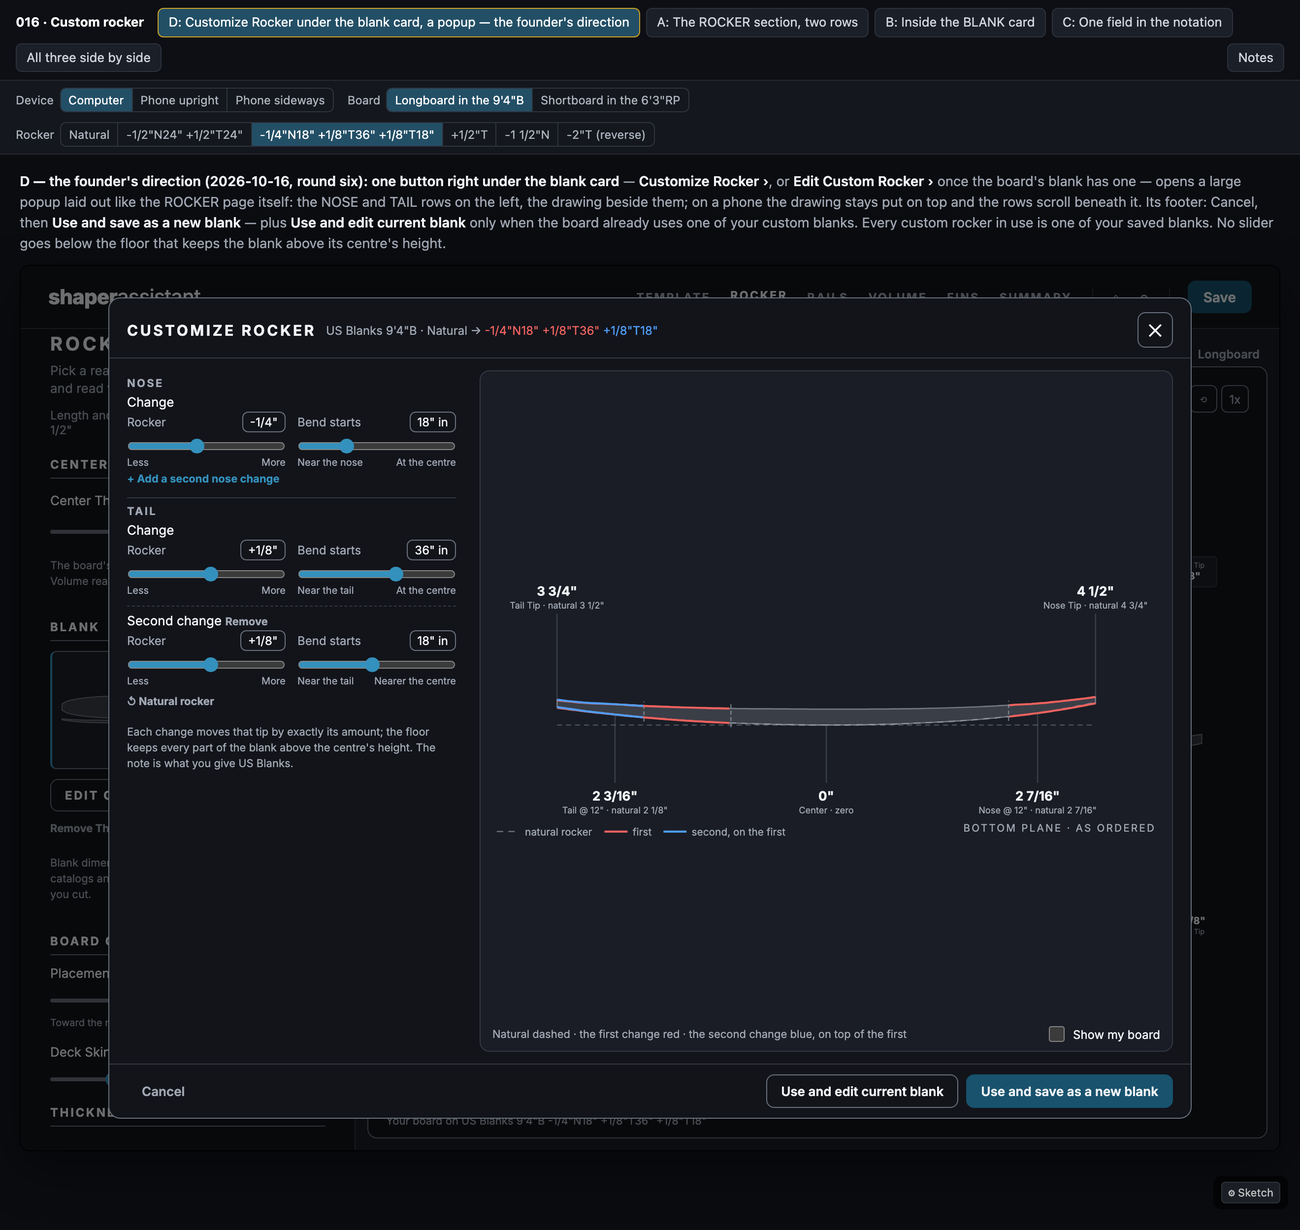
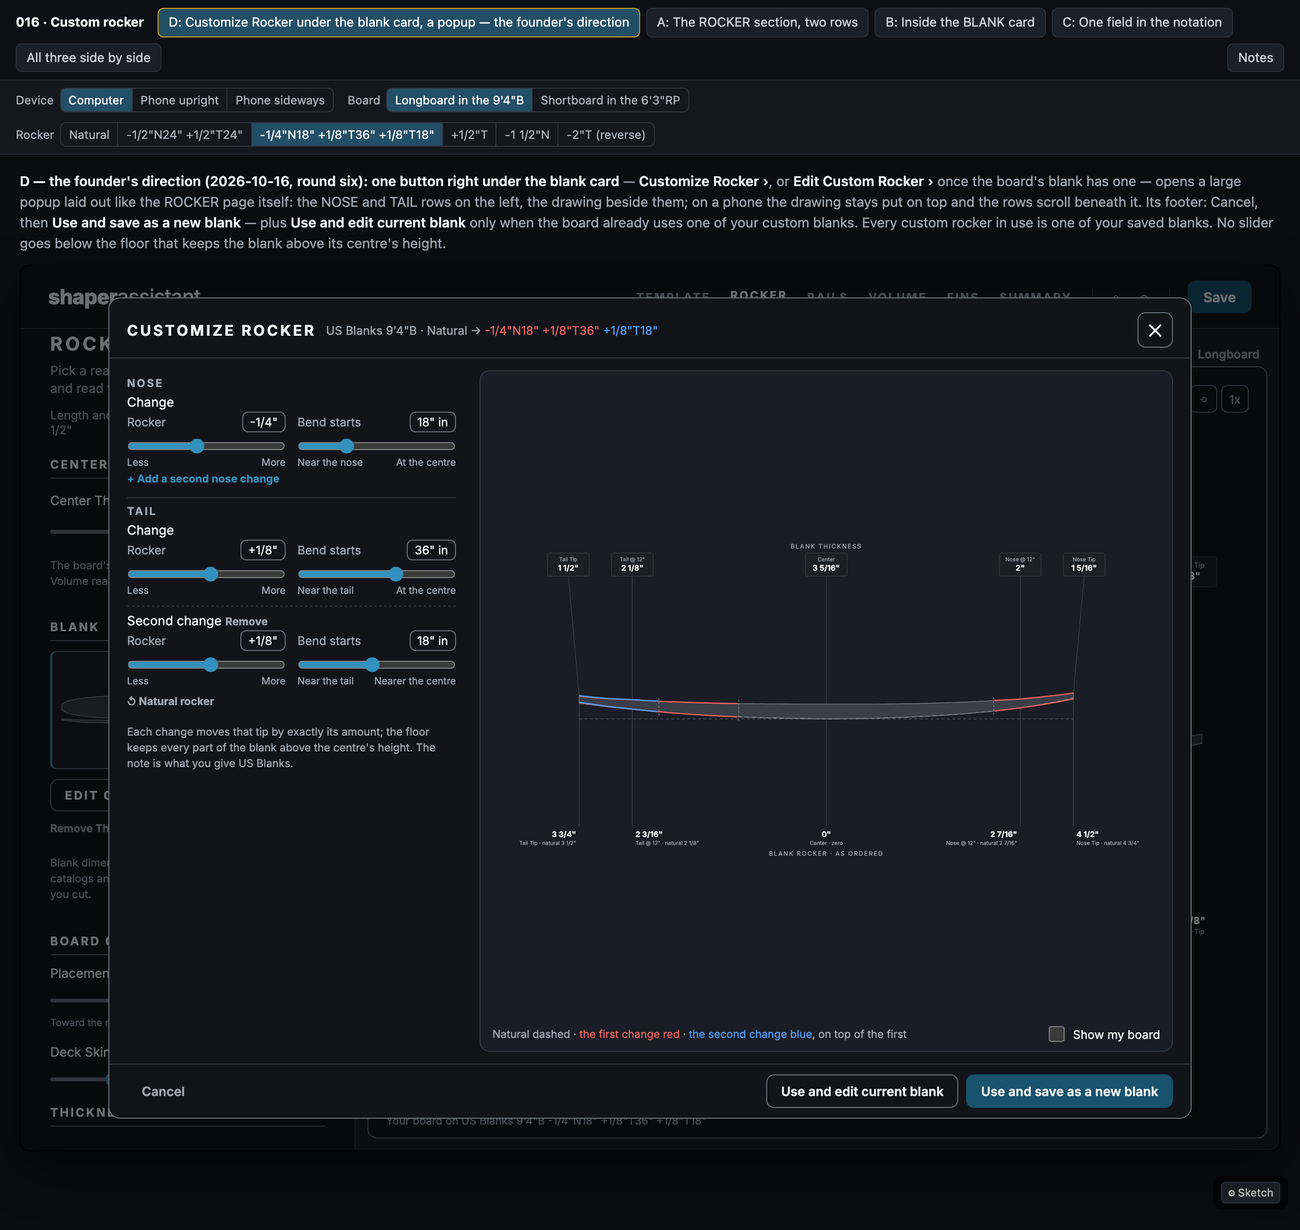
docs(sketch-016): round fourteen — the popup shows the blank's thickness and rocker, or the board's values
The founder (2026-10-16): with Show my board off, show all the blank's dimensions including
thickness; with it on, the surfboard's values. The popup's drawing now carries the blank's
printed thickness as chips on one rail and the rocker as ordered on the other at the blank's
five stations, tips anchored outward and 12" stations inward; the colour key moved into the
caption's own words; the drawing takes the page's own width on a computer. Nothing in the app
changed.

diff --git a/.planning/sketches/016-custom-rocker/index.html b/.planning/sketches/016-custom-rocker/index.html
@@ -386,14 +386,15 @@ function mainArt(device, g, opts = {}) {
   const W = upright ? 386 : device === "side" ? 530 : 880, H = upright ? 330 : device === "side" ? 220 : 420;
   const r = g.r || state.rocker, custom = !isNatural(r);
   const lo = Math.min(0, g.start), hi = Math.max(g.L, g.start + g.bl.lengthIn), span = hi - lo;
-  const along = upright ? H - 36 : W - 110, k = along / span;
+  const margin = overlay && !upright ? 120 : 55;
+  const along = upright ? H - 36 : W - 2 * margin, k = along / span;
   // the board's height axis at the same scale (true proportion, as the app draws it)
   const maxUp = Math.max(...g.blankBottom.map((p) => p[1] + p[2]), ...g.boardRocker.map((p) => p[1] + p[2])) + 0.2;
   const minDn = Math.min(0, ...g.blankBottom.map((p) => p[1]), ...g.boardRocker.map((p) => p[1])) - 0.2;
   const mid = upright ? W / 2 : H / 2 + 10;
   const X = upright ? (s) => mid - ((maxUp + minDn) / 2) * k : null;
   // horizontal: x along, y up.  upright: y along (nose at the top), x = height (deck to the right? the app draws deck to the right of the bottom)
-  const P = upright ? (s, h) => [mid + (h - (maxUp + minDn) / 2) * k, H - 14 - (s - lo) * k] : (s, h) => [55 + (s - lo) * k, mid - (h - (maxUp + minDn) / 2) * k];
+  const P = upright ? (s, h) => [mid + (h - (maxUp + minDn) / 2) * k, H - 14 - (s - lo) * k] : (s, h) => [margin + (s - lo) * k, mid - (h - (maxUp + minDn) / 2) * k];
   const path = (pts, f) => pts.map((p, i) => { const [x, y] = P(p[0], f(p)); return `${i ? "L" : "M"}${x.toFixed(1)},${y.toFixed(1)}`; }).join("");
   const blankOutline = path(g.blankBottom, (p) => p[1]) + path([...g.blankBottom].reverse(), (p) => p[1] + p[2]).replace(/^M/, "L") + "Z";
   const boardOutline = path(g.boardRocker, (p) => p[1]) + path([...g.boardRocker].reverse(), (p) => p[1] + p[2]).replace(/^M/, "L") + "Z";
@@ -421,25 +422,34 @@ function mainArt(device, g, opts = {}) {
     }
   }
   if (!showBoard) {
-    // the blank alone: its own five stations — tail tip, 12" in, the centre's zero reference, 12" in, nose tip —
-    // reading the rocker as ordered, with the natural figure small beneath (the founder, round thirteen)
+    // the blank alone: all its dimensions at its own five stations — the blank's printed thickness as chips on one
+    // rail, the rocker as ordered on the other, the centre's zero reference included (the founder, rounds 13–14)
     const Lb = g.bl.lengthIn, C = g.bl.centreFromTailIn;
-    const stations = [[0, "Tail Tip"], [12, `Tail @ ${M() ? "30.5 cm" : '12"'}`], [C, "Center"], [Lb - 12, `Nose @ ${M() ? "30.5 cm" : '12"'}`], [Lb, "Nose Tip"]];
-    for (const [x, name] of stations) {
-      const sx = x + g.start, nat = g.natAt(x), cus = g.blankLev(x), isCentre = x === C;
+    const thick = (label) => { const st = g.bl.stations.find((x) => x.label === label); return st && st.thickIn !== null ? st.thickIn : null; };
+    const stations = [[0, "Tail Tip", "T0", "out-"], [12, `Tail @ ${M() ? "30.5 cm" : '12"'}`, "T12", "in+"], [C, "Center", "C", "mid"], [Lb - 12, `Nose @ ${M() ? "30.5 cm" : '12"'}`, "N12", "in-"], [Lb, "Nose Tip", "N0", "out+"]];
+    for (const [x, name, label, side] of stations) {
+      const sx = x + g.start, nat = g.natAt(x), cus = g.blankLev(x), isCentre = x === C, th = thick(label);
       const i = g.blankBottom.findIndex((p) => p[0] >= sx - 0.01); const p0 = g.blankBottom[Math.max(0, Math.min(g.blankBottom.length - 1, i < 0 ? g.blankBottom.length - 1 : i))];
-      // lying flat: the tips read on the top rail (free with no board drawn), the centre and the 12" stations below
-      const isTip = x === 0 || x === Lb, top = !upright && isTip;
-      const [tx, ty] = P(sx, top ? p0[1] + p0[2] : p0[1]);
-      const anchor = upright ? "end" : "middle", lx = upright ? 70 : tx, ly = upright ? ty : top ? 30 : H - 30;
-      if (upright) out += `<line x1="${tx}" y1="${ty}" x2="${lx + 6}" y2="${ty}" stroke="var(--line-faint)"/>`;
-      else if (top) out += `<line x1="${tx}" y1="${ty}" x2="${tx}" y2="${ly + 14}" stroke="var(--line-faint)"/>`;
-      else out += `<line x1="${tx}" y1="${ty}" x2="${tx}" y2="${ly - 14}" stroke="var(--line-faint)"/>`;
+      const [bx, by] = P(sx, p0[1]), [dx, dy] = P(sx, p0[1] + p0[2]);
       const value = isCentre ? (M() ? "0 mm" : '0"') : mark(cus);
       const sub = isCentre ? `${name} · zero` : custom && Math.abs(cus - nat) > 1e-9 ? `${name} · natural ${mark(nat)}` : name;
-      out += `<text x="${lx}" y="${ly + (upright ? 1 : 0)}" font-size="10" font-weight="700" text-anchor="${anchor}" fill="var(--color-text)">${esc(value)}</text><text x="${lx}" y="${ly + 10}" font-size="7" text-anchor="${anchor}" fill="var(--color-text-muted)">${esc(sub)}</text>`;
+      const thickText = th === null ? "—" : mark(th);
+      if (!upright) {
+        // lying flat: the tips' rocker reads anchored outward and the 12" stations' inward, so neighbours never meet
+        const railT = 34, railR = H - 30;
+        const anchor = side === "out-" ? "end" : side === "out+" ? "start" : side === "in+" ? "start" : side === "in-" ? "end" : "middle";
+        const lx = side === "out-" ? bx - 4 : side === "out+" ? bx + 4 : side === "in+" ? bx + 4 : side === "in-" ? bx - 4 : bx;
+        const cx = side === "out-" ? dx - 14 : side === "out+" ? dx + 14 : dx;
+        out += `<line x1="${dx}" y1="${dy}" x2="${cx}" y2="${railT + 18}" stroke="var(--line-faint)" stroke-width="1"/><rect x="${cx - 27}" y="${railT - 12}" width="54" height="30" rx="3" fill="var(--color-well)" stroke="var(--color-border)"/><text x="${cx}" y="${railT - 1}" font-size="7" text-anchor="middle" fill="var(--color-text-muted)">${esc(name)}</text><text x="${cx}" y="${railT + 11}" font-size="10" font-weight="700" text-anchor="middle" fill="var(--color-text)">${esc(thickText)}</text>`;
+        out += `<line x1="${bx}" y1="${by}" x2="${bx}" y2="${railR - 14}" stroke="var(--line-faint)" stroke-width="1"/><text x="${lx}" y="${railR}" font-size="10" font-weight="700" text-anchor="${anchor}" fill="var(--color-text)">${esc(value)}</text><text x="${lx}" y="${railR + 10}" font-size="7" text-anchor="${anchor}" fill="var(--color-text-muted)">${esc(sub)}</text>`;
+      } else {
+        const railL = 70, railR = W - 70;
+        out += `<line x1="${bx}" y1="${by}" x2="${railL + 6}" y2="${by}" stroke="var(--line-faint)" stroke-width="1"/><text x="${railL}" y="${by + 1}" font-size="11" font-weight="700" text-anchor="end" fill="var(--color-text)">${esc(value)}</text><text x="${railL}" y="${by + 11}" font-size="7.5" text-anchor="end" fill="var(--color-text-muted)">${esc(sub)}</text>`;
+        out += `<line x1="${dx}" y1="${dy}" x2="${railR - 6}" y2="${dy}" stroke="var(--line-faint)" stroke-width="1"/><rect x="${railR - 4}" y="${dy - 14}" width="66" height="28" rx="3" fill="var(--color-well)" stroke="var(--color-border)"/><text x="${railR + 29}" y="${dy - 3}" font-size="7" text-anchor="middle" fill="var(--color-text-muted)">${esc(name)}</text><text x="${railR + 29}" y="${dy + 9}" font-size="10" font-weight="700" text-anchor="middle" fill="var(--color-text)">${esc(thickText)}</text>`;
+      }
     }
-    if (!upright) out += `<text x="${W - 8}" y="${H - 6}" font-size="8" letter-spacing="1.2" text-anchor="end" fill="var(--color-text-muted)">BOTTOM PLANE · AS ORDERED</text>`;
+    if (!upright) { const [cx] = P(g.start + Lb / 2, 0); out += `<text x="${cx}" y="16" font-size="8" letter-spacing="1.2" text-anchor="middle" fill="var(--color-text-muted)">BLANK THICKNESS</text><text x="${cx}" y="${H - 6}" font-size="8" letter-spacing="1.2" text-anchor="middle" fill="var(--color-text-muted)">BLANK ROCKER · AS ORDERED</text>`; }
+    else { out += `<text x="40" y="12" font-size="8" letter-spacing="1.2" text-anchor="middle" fill="var(--color-text-muted)">ROCKER</text><text x="${W - 40}" y="12" font-size="8" letter-spacing="1.2" text-anchor="middle" fill="var(--color-text-muted)">THICKNESS</text>`; }
   }
   if (showBoard) out += `<path d="${boardOutline}" fill="var(--color-board)" stroke="var(--color-text)" stroke-width="1.5"/>`;
   // the five stations: thickness chips on one rail, rocker readings on the other (the app's grammar)
@@ -461,11 +471,6 @@ function mainArt(device, g, opts = {}) {
   else if (!upright) { const [cx] = P(g.L / 2, 0); out += `<text x="${cx}" y="${16}" font-size="8" letter-spacing="1.2" text-anchor="middle" fill="var(--color-text-muted)">THICKNESS</text><text x="${cx}" y="${H - 6}" font-size="8" letter-spacing="1.2" text-anchor="middle" fill="var(--color-text-muted)">ROCKER</text>`; }
   else { out += `<text x="40" y="12" font-size="8" letter-spacing="1.2" text-anchor="middle" fill="var(--color-text-muted)">ROCKER</text><text x="${W - 40}" y="12" font-size="8" letter-spacing="1.2" text-anchor="middle" fill="var(--color-text-muted)">THICKNESS</text>`; }
   // the key, only when a custom rocker is set
-  if (custom && overlay && !upright) {
-    const hasSecond = r.nose.length > 1 && r.nose[1].a || r.tail.length > 1 && r.tail[1].a;
-    const kx = 8, ky = H - 6;
-    out += `<g font-size="8" fill="var(--color-text-muted)"><line x1="${kx}" y1="${ky}" x2="${kx + 18}" y2="${ky}" stroke="var(--blank-line)" stroke-dasharray="5 4"/><text x="${kx + 22}" y="${ky + 3}">natural rocker</text>${overlay ? `<line x1="${kx + 84}" y1="${ky}" x2="${kx + 102}" y2="${ky}" stroke="var(--adj-1)" stroke-width="1.6"/><text x="${kx + 106}" y="${ky + 3}">first</text>${hasSecond ? `<line x1="${kx + 130}" y1="${ky}" x2="${kx + 148}" y2="${ky}" stroke="var(--adj-2)" stroke-width="1.6"/><text x="${kx + 152}" y="${ky + 3}">second, on the first</text>` : ""}` : ""}</g>`;
-  }
   return out + `</svg>`;
 }
 /** A tip close-up: the last `win` inches of one end, at a scale that fills the box, natural dashed against custom. */
@@ -740,7 +745,7 @@ function picker(device, g) {
 function rockerPopup(device, g) {
   const r = state.draft, b = B().blank, note = noteOf(r), gd = geometry(r);
   const editing = state.savedIdx !== null && state.saved[state.savedIdx] && state.saved[state.savedIdx].note === noteOf(state.rocker) ? state.saved[state.savedIdx] : null;
-  const art = mainArt(device === "phone" ? "phone" : "side", gd, { board: state.showBoard, overlay: true });
+  const art = mainArt(device === "phone" ? "phone" : device === "side" ? "side" : "computer", gd, { board: state.showBoard, overlay: true });
   return `<div class="scrim" data-act="popcancel"><div class="dialog rdlg" role="dialog" aria-label="Customize rocker" data-act="noop">
     <div class="cat-head"><h2>Customize rocker</h2><span class="for">${esc(b.vendor)} ${esc(b.name)} · ${note ? "Natural → " + colouredNote(r) : "Natural"}</span><button class="x" data-act="popcancel">✕</button></div>
     <div class="rbody">
@@ -748,7 +753,7 @@ function rockerPopup(device, g) {
         <div class="links"><button class="link muted" data-act="popnatural">↺ Natural rocker</button></div>
         <p class="note fine">Each change moves that tip by exactly its amount; the floor keeps every part of the blank above the centre's height. The note is what you give ${esc(b.vendor)}.</p>
       </div>
-      <div class="rart">${art}<div class="rcap"><span>Natural dashed · the first change red · the second change blue, on top of the first</span><label class="sw"><input type="checkbox" data-act="showboard"${state.showBoard ? " checked" : ""}> Show my board</label></div></div>
+      <div class="rart">${art}<div class="rcap"><span>Natural dashed · <span style="color:var(--adj-1)">the first change red</span> · <span style="color:var(--adj-2)">the second change blue</span>, on top of the first</span><label class="sw"><input type="checkbox" data-act="showboard"${state.showBoard ? " checked" : ""}> Show my board</label></div></div>
     </div>
     <div class="rfoot"><button class="btn ghost" data-act="popcancel">Cancel</button><span class="sp"></span>${editing ? `<button class="btn" data-act="popsaveedit">Use and edit current blank</button>` : ""}${note ? `<button class="btn primary" data-act="popsavenew">Use and save as a new blank</button>` : `<button class="btn primary" data-act="popuse">Use the natural rocker</button>`}</div>
   </div></div>`;
@@ -782,7 +787,7 @@ const NOTES = `<h2>Sketch 016 — Custom rocker on ROCKER</h2>
 <h3>Round eight (the founder, 2026-10-16)</h3>
 <p>The deviation from natural is drawn the way US Blanks' catalogue draws it (September 2026, page 11, "Rocker Selection cont'd"): the blank's outline — bottom and deck — in red over the first adjustment's span and in blue over the second's, stacked on the first; the formula's figures take the same colours. Colours chosen to read on Slate and Daylight alike. <b>Only inside the Customize Rocker popup</b> (rounds eleven and twelve), the natural dashed line and the bend marks too: once the change is saved and the shaper is back on the page, the VIEWER shows the bent blank alone, as any blank.</p>
 <h3>Round nine (the founder, 2026-10-16)</h3>
-<p>The popup's drawing has a <b>Show my board</b> switch, off by default: the blank alone on its bottom plane with its own five stations — the tail tip, 12" in, the centre's zero reference, 12" in, the nose tip — reading the rocker as ordered, the natural figure small beneath where it differs (round thirteen); on, the board sits in it with the board's five stations as the page draws them.</p>
+<p>The popup's drawing has a <b>Show my board</b> switch, off by default: the blank alone on its bottom plane with all its dimensions at its own five stations — the blank's printed thickness as chips on one rail, the rocker as ordered on the other (the tail tip, 12" in, the centre's zero reference, 12" in, the nose tip), the natural figure small beneath where it differs (rounds thirteen and fourteen); on, the board sits in it and the surfboard's values read instead, as the page draws them.</p>
 <h3>The maths</h3>
 <p>Each change adds <i>amount × u²</i> to the natural curve, <i>u</i> running from 0 at the bend point to 1 at the tip — the even bend from spike 002, applied to the app's own curve for the blank (dumped by the app's own code, nothing re-drawn). Two changes on one end stack: the first is applied in full, the second on top of it, so +1/2"N from the centre plus +1/2"N18" lifts the nose tip 1" above natural (the founder, round seven); the second must start nearer the tip than the first, and its slider is limited to that. Bend starts is a slider in 1" steps beside the rocker slider. A change big enough to move the blank's low point re-levels on the new low, as the app levels every blank. The fit never changes.</p>
 <h3>Not drawn</h3>

diff --git a/.planning/sketches/MANIFEST.md b/.planning/sketches/MANIFEST.md
@@ -98,7 +98,7 @@ wing) with the corner radius and the grab points as a toggle.
 | 012 | blank-round-nose | When a blank prints its nose tip 0 wide, how should its outline reach the tip on ROCKER's top view? | **C — Parabola from the tip** (nothing to set) | viewer, rocker, top-view, blank, geometry |
 | 013 | wings-on-the-outline | How does a wing read on the TEMPLATE outline, and what happens to the tail behind it? | **A — Tail re-drawn to your block** (depth fades to nothing at the tail pod; two wings stack) | viewer, template, outline, wings, fins, geometry, controls |
 | 014 | wings-tab | With wings on a WINGS tab of the TEMPLATE page, where do the wing controls live, and how does the view scale for a stinger? | **B — The window grows with the wing** (sidebar swaps to the wing controls; grab points with Show construction) | template, wings, tabs, controls, sidebar, phone, interaction |
-| 016 | custom-rocker | With a blank picked on ROCKER, how does a shaper set the blank's rocker as ordered from the maker (nose and tail changes in the US Blanks notation, up to two per end), and how do the drawing, the name and the DATASHEET show it? | **D — Customize Rocker under the blank card, a popup** (the founder's direction, rounds five to thirteen, 2026-10-16; pending the look) | rocker, blank, custom-rocker, sidebar, viewer, datasheet, phone, notation |
+| 016 | custom-rocker | With a blank picked on ROCKER, how does a shaper set the blank's rocker as ordered from the maker (nose and tail changes in the US Blanks notation, up to two per end), and how do the drawing, the name and the DATASHEET show it? | **D — Customize Rocker under the blank card, a popup** (the founder's direction, rounds five to fourteen, 2026-10-16; pending the look) | rocker, blank, custom-rocker, sidebar, viewer, datasheet, phone, notation |
 
 ## Decisions These Lock In
 
@@ -193,7 +193,7 @@ wing) with the corner radius and the grab points as a toggle.
 - Custom rocker (016, 2026-10-16): A, B or C for the control; the tip close-ups; the note on its own line or run on
   as one name; the DATASHEET's BLANK Rocker row (custom with natural beneath, two rows, or a footnote). Decided so far
   (the founder, 2026-10-16): the US Blanks notation app-wide, typed changes first, the note in inches in Metric,
-  steppers with room for a two-point change; a custom blank can be saved for later as the shaper's own blank, beside the natural one, starred on save (round two); the rocker text on its own line under every blank's name, `Natural` included, no tip close-ups, and a Natural Rocker row over a Custom Rocker row, the adjustment written once on the name line (rounds three and four). The control is D (rounds five and six): a Customize Rocker / Edit Custom Rocker button right under the blank card opening a large popup laid out like the ROCKER page (rows left, drawing right; drawing pinned on a phone), with Cancel · Use and save as a new blank (and Use and edit current blank when the board already uses a custom blank) — every custom rocker in use is a saved blank; no rocker value below the centre; switching blanks clears the custom rocker; Bend starts is a 1"-step slider beside the rocker slider, a second change starts nearer the tip than the first, and two changes stack (round seven); the deviation from natural drawn as US Blanks' catalogue page 11 draws it, the outline red over the first adjustment and blue over the second (round eight); a Show my board switch on the popup's drawing, off by default (round nine); the red and blue lines, the natural dashed line and the bend marks live only in the popup, a live aid while adjusting — the page's VIEWER draws a custom blank as any blank (rounds eleven and twelve); the popup's blank drawing reads the blank's five stations as ordered, the centre as the zero reference (round thirteen). Awaiting the founder's look. Research: `.planning/spikes/CUSTOM-ROCKER-PLAN.md`.
+  steppers with room for a two-point change; a custom blank can be saved for later as the shaper's own blank, beside the natural one, starred on save (round two); the rocker text on its own line under every blank's name, `Natural` included, no tip close-ups, and a Natural Rocker row over a Custom Rocker row, the adjustment written once on the name line (rounds three and four). The control is D (rounds five and six): a Customize Rocker / Edit Custom Rocker button right under the blank card opening a large popup laid out like the ROCKER page (rows left, drawing right; drawing pinned on a phone), with Cancel · Use and save as a new blank (and Use and edit current blank when the board already uses a custom blank) — every custom rocker in use is a saved blank; no rocker value below the centre; switching blanks clears the custom rocker; Bend starts is a 1"-step slider beside the rocker slider, a second change starts nearer the tip than the first, and two changes stack (round seven); the deviation from natural drawn as US Blanks' catalogue page 11 draws it, the outline red over the first adjustment and blue over the second (round eight); a Show my board switch on the popup's drawing, off by default (round nine); the red and blue lines, the natural dashed line and the bend marks live only in the popup, a live aid while adjusting — the page's VIEWER draws a custom blank as any blank (rounds eleven and twelve); the popup's blank drawing reads all the blank's dimensions at its five stations — printed thickness, rocker as ordered, the centre as the zero reference — and the surfboard's values once Show my board is on (rounds thirteen and fourteen). Awaiting the founder's look. Research: `.planning/spikes/CUSTOM-ROCKER-PLAN.md`.
 
 - Phone chrome (007/008): ~~does a phone held sideways keep its screens list in ☰ or switch to the tiles
   too?~~ Answered: tiles too (the founder, 2026-10-03, "use on all screens that condense the top bar into a

diff --git a/.planning/spikes/CUSTOM-ROCKER-PLAN.md b/.planning/spikes/CUSTOM-ROCKER-PLAN.md
@@ -157,11 +157,14 @@ deploy that reads it.
    theme, chosen to read on Slate and Daylight (the sketch's `--adj-1` / `--adj-2`; the app's `globals.css` gets its
    own, like sketch 012's compare blue). The five board stations read the custom figures as they do today; "Show
    measuring points" unchanged. No tip close-ups. **The popup's drawing has a Show my board switch, off by default**
-   (the founder, round nine): the blank alone on its bottom plane **with its own five stations — the tail tip, 12"
-   in, the centre's zero reference, 12" in, the nose tip — reading the rocker as ordered**, the natural figure small
-   beneath where it differs (the founder, round thirteen: "show the zero reference point at center as well as the 12
-   inch station dimensions. The dimensions shown on the pop-up should be the customized rocker values"); on, the
-   board in the blank with the board's five stations as the page draws them.
+   (the founder, round nine): the blank alone on its bottom plane **with all its dimensions at its own five stations —
+   the blank's printed thickness as chips on one rail, the rocker as ordered on the other (the tail tip, 12" in, the
+   centre's zero reference, 12" in, the nose tip)**, the natural figure small beneath where it differs (the founder,
+   rounds thirteen and fourteen: "show the zero reference point at center as well as the 12 inch station dimensions.
+   The dimensions shown on the pop-up should be the customized rocker values"; "show all the dimensions, including
+   thickness for the blank when show my board is turned off; when show my board is turned on display the
+   surfboard's values rather than the blank's"); on, the board in the blank with the surfboard's five stations as the
+   page draws them.
 4. **The name and the DATASHEET — decided (the founder, 2026-10-16, sketch 016 round three):** every blank is named
    the same way, the name then its rocker on its own line, `Natural` included (`9'4"B` / `Natural`; `9'4"B` /
    `-1/4"N18" +1/8"T36" +1/8"T18"`), on the BLANK button, the picker's cards, the viewer's caption, the DATASHEET's

diff --git a/.planning/spikes/MANIFEST.md b/.planning/spikes/MANIFEST.md
@@ -41,8 +41,9 @@ sketch go to a Fable session.
   over the first adjustment's span, blue over the second's, in colours that read on every theme — **inside the
   Customize Rocker popup only**, with the natural dashed line and the bend marks, a live aid while adjusting; the
   page's VIEWER draws a custom blank as any blank, the bent foam alone. **The
-  popup's drawing has a Show my board switch, off by default** — the blank alone unless switched on, reading its
-  five stations (centre = the zero reference, the 12" stations and the tips) as ordered.
+  popup's drawing has a Show my board switch, off by default** — the blank alone unless switched on, reading all its
+  dimensions at its five stations (printed thickness; rocker as ordered with the centre as the zero reference); on,
+  the surfboard's values.
 
 **Status:** spikes 001–002 VALIDATED; the deep dive and build plan are in `CUSTOM-ROCKER-PLAN.md` (2026-10-16). The
 decisions waiting on the founder are its §6. Next is `/gsd-sketch` 016 (the sidebar control, the VIEWER overlay, the
